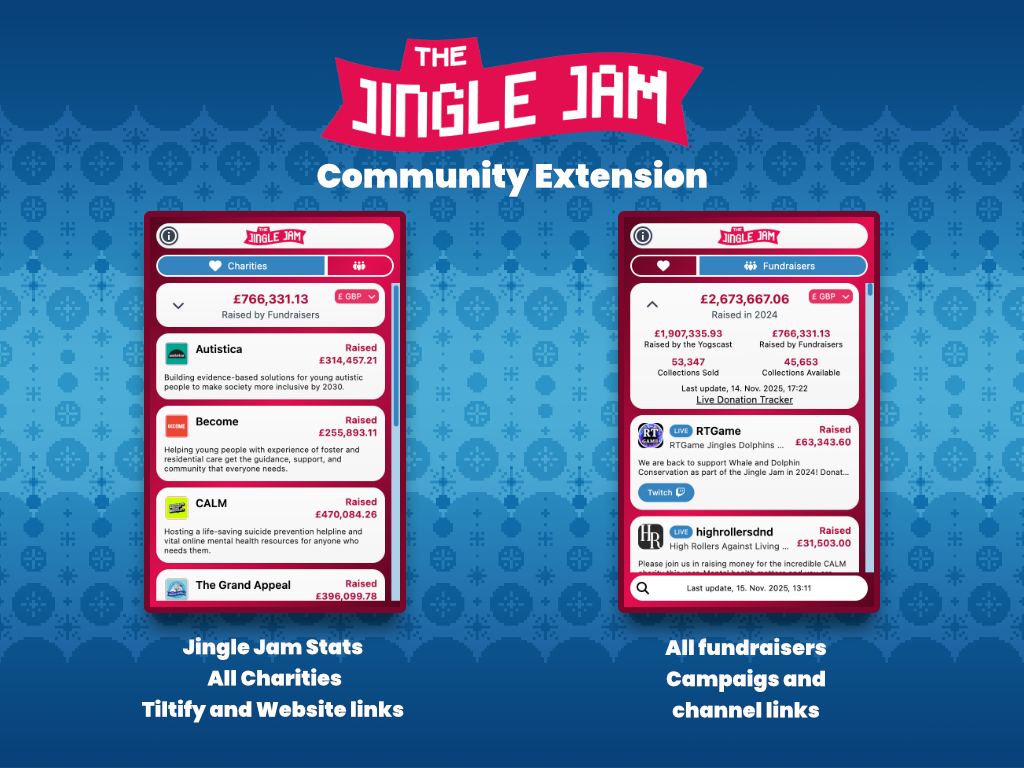
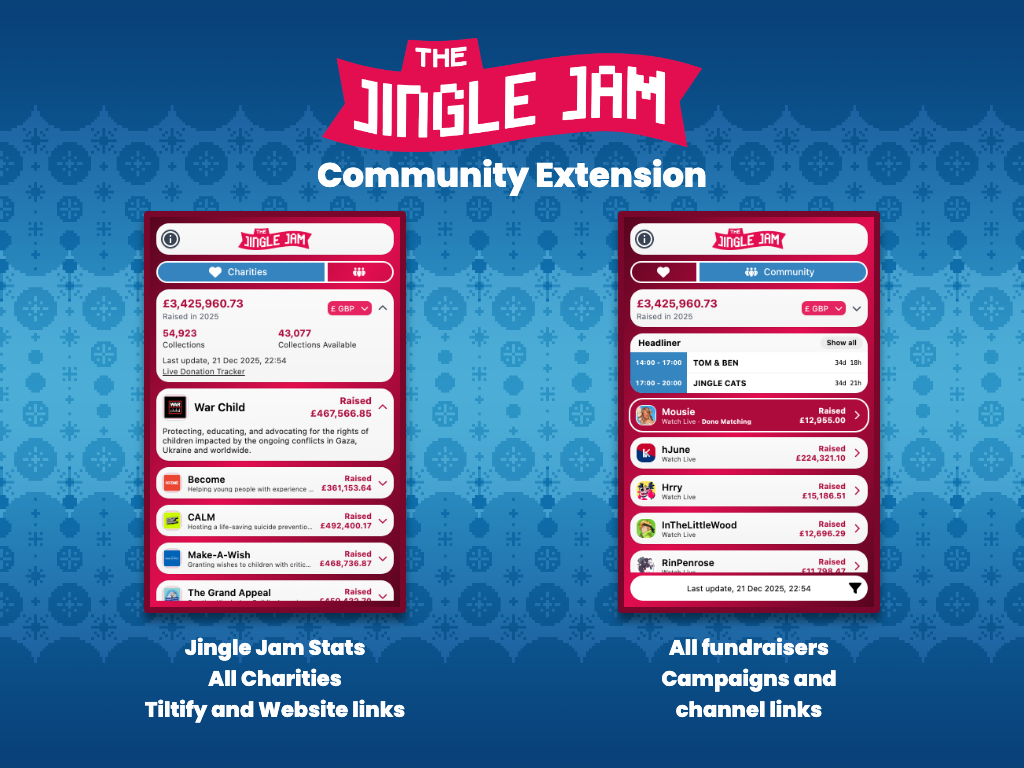
update extension resources

diff --git a/src/components/stream/StreamResources.tsx b/src/components/stream/StreamResources.tsx
@@ -12,14 +12,20 @@ import { OverlayConfiguration } from '../features/overlay/overview/OverlayConfig
 import { PublicOverlayConfiguration } from '../features/overlay/overview/PublicOverlayConfiguration'
 import type { User } from '../../lib/auth/User'
 
-import img1 from '../../images/extension2025/JJ_Twitch_Extension_Screenshots_1.png'
-import img2 from '../../images/extension2025/JJ_Twitch_Extension_Screenshots_2.png'
-import img3 from '../../images/extension2025/JJ_Twitch_Extension_Screenshots_3.png'
+import panel1 from '../../images/extension2025/JJ_Twitch_Extension_Screenshots_1.png'
+import panel2 from '../../images/extension2025/JJ_Twitch_Extension_Screenshots_2.png'
+import panel3 from '../../images/extension2025/JJ_Twitch_Extension_Screenshots_3.png'
+import overlay1 from '../../images/extension2025/JJ_Twitch_Overlay_Screenshots_1.png'
+import overlay2 from '../../images/extension2025/JJ_Twitch_Overlay_Screenshots_2.png'
+import overlay3 from '../../images/extension2025/JJ_Twitch_Overlay_Screenshots_3.png'
+import overlay4 from '../../images/extension2025/JJ_Twitch_Overlay_Screenshots_4.png'
 import { BskyIcon, DiscordIcon, RedditIcon } from '../common/icons/JJIcons.tsx'
 
-const Carousel: Component = () => {
-  const alt = 'JJ Twitch Extension Screenshots'
-  const images = [img1, img2, img3]
+const Carousel: Component<{ images: ImageMetadata[]; alt: string }> = (
+  props,
+) => {
+  const alt = props.alt
+  const images = props.images
   const [idx, setIdx] = createSignal(0)
   const [lightbox, setLightbox] = createSignal<null | number>(null)
 
@@ -55,7 +61,7 @@ const Carousel: Component = () => {
         {images.map((src, i) => (
           <button
             class={twMerge(
-              'h-14 w-20 overflow-hidden rounded border border-transparent opacity-70 hover:opacity-100',
+              'h-14 w-20 overflow-hidden rounded border border-transparent bg-black/40 opacity-70 hover:opacity-100',
               i === idx() && 'border-accent-500 opacity-100',
             )}
             onClick={() => setIdx(i)}
@@ -144,7 +150,34 @@ export const StreamResources: Component<{ user: User | null }> = (props) => {
                 </a>
               </div>
 
-              <Carousel />
+              <Carousel
+                images={[panel1, panel2, panel3]}
+                alt="JJ Twitch Panel Extension Screenshots"
+              />
+
+              <div class="mt-6 flex flex-col items-center gap-1">
+                <p class="~text-lg/xl">Twitch Overlay Extension</p>
+                <a
+                  class="p-1 text-lg underline hover:text-twitch-100"
+                  href="https://dashboard.twitch.tv/extensions/9urrg74yzq8di9hqr5prsto5lbmq3x"
+                  target="_blank"
+                >
+                  Get the Overlay Extension on Twitch
+                </a>
+              </div>
+              <p class="text-center">
+                The Overlay sits on top of the Twitch video player and only
+                shows up while viewers hover over the stream.
+              </p>
+              <p class="text-center">
+                It has the same charities, fundraisers and schedules as the
+                Panel.
+              </p>
+
+              <Carousel
+                images={[overlay1, overlay2, overlay3, overlay4]}
+                alt="JJ Twitch Overlay Extension Screenshots"
+              />
 
               <a class="text-white underline" href="/twitch-extension/privacy">
                 Privacy Policy
